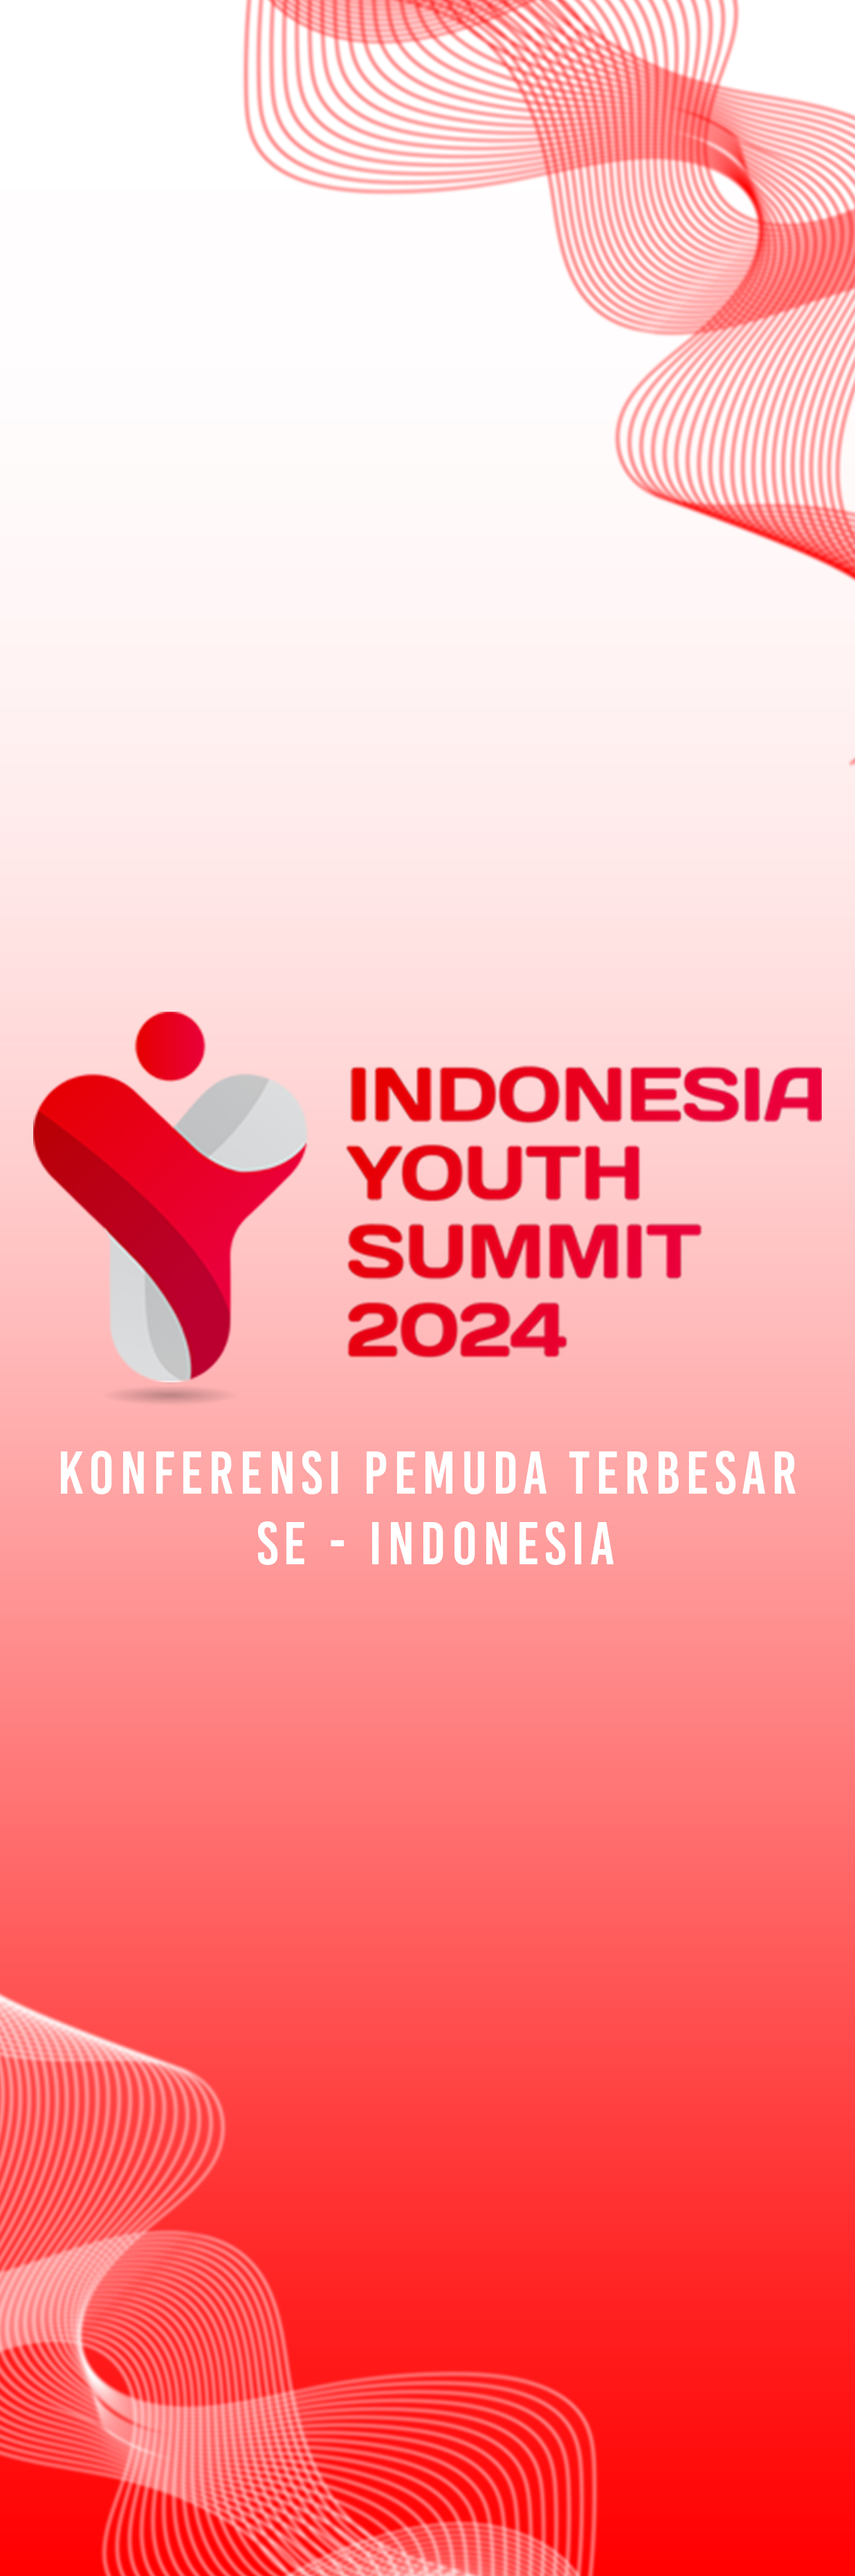
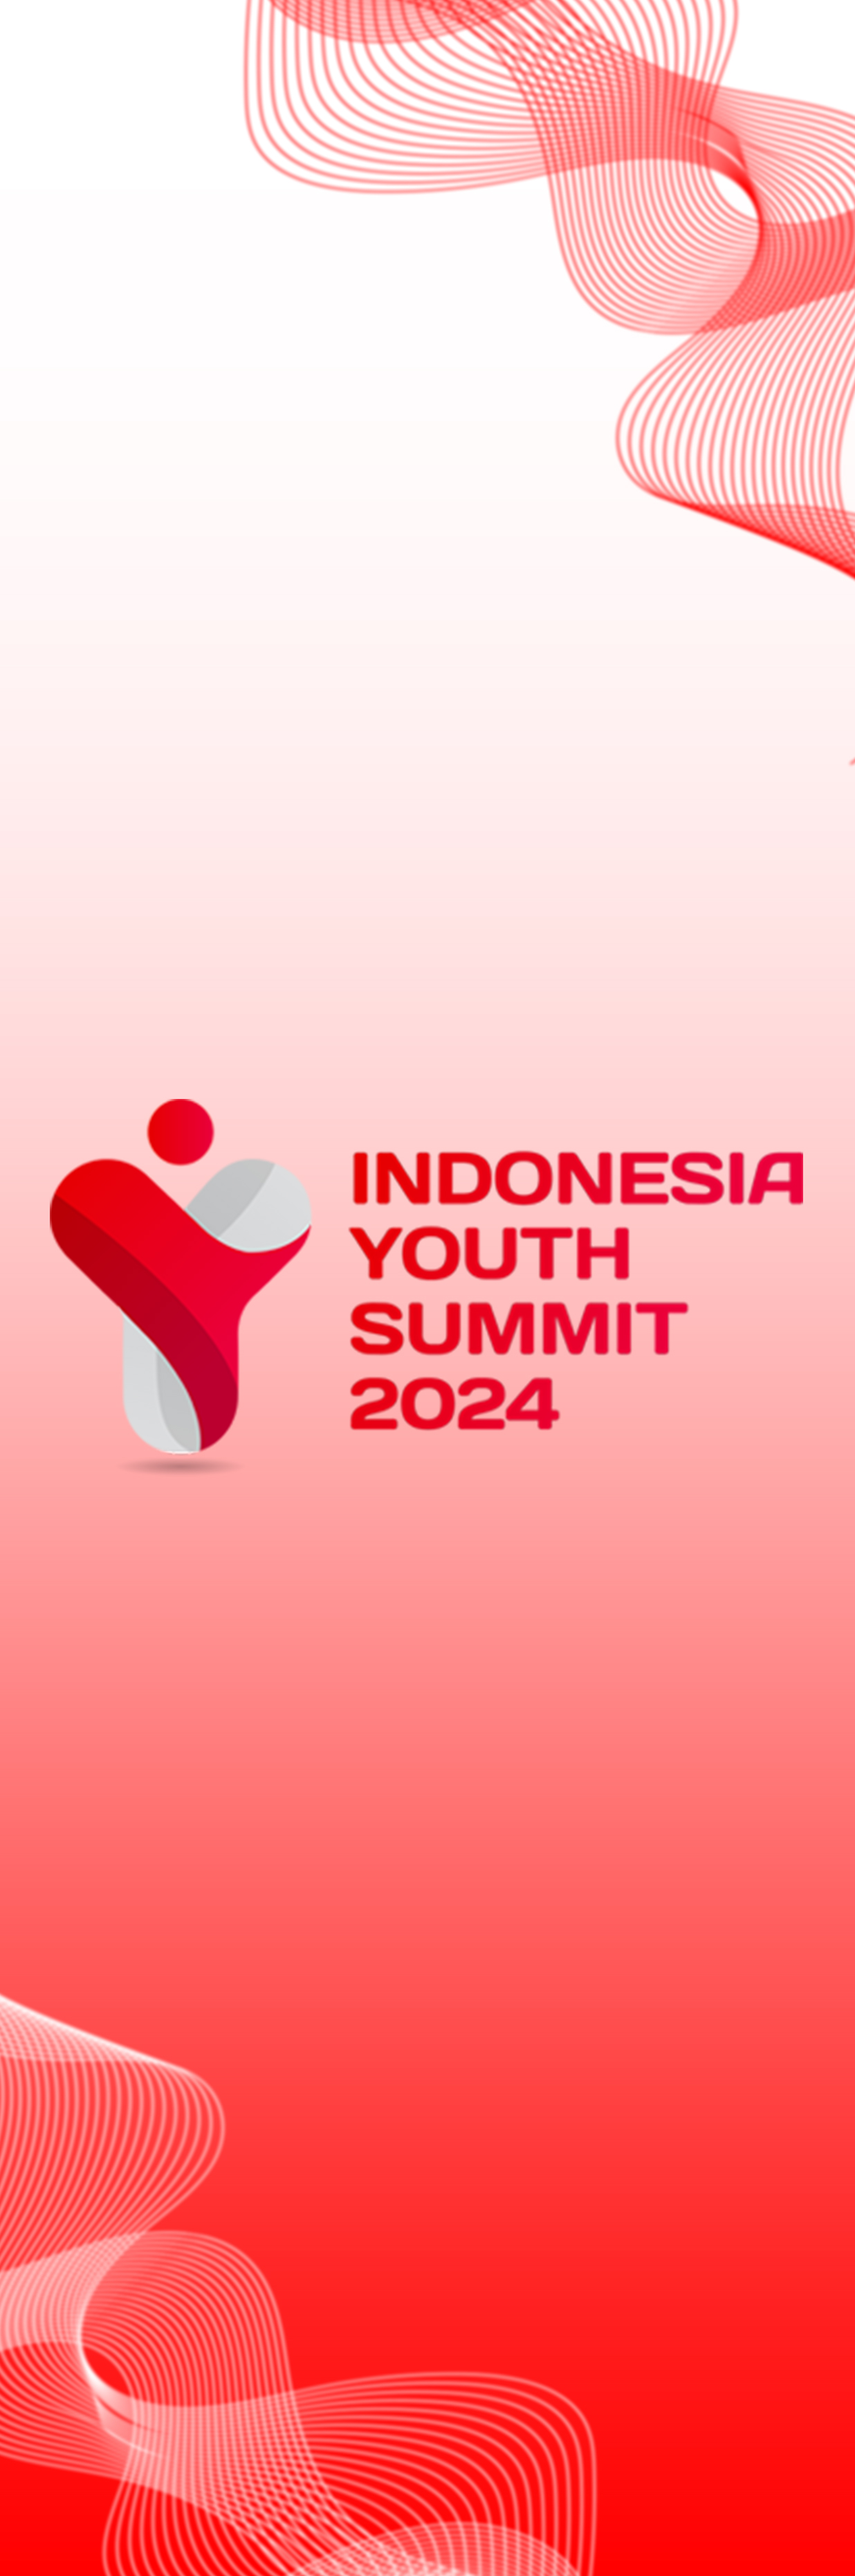
fix

Changed region(s): [[0.3997, 0.4054, 0.9838, 0.6237], [0.0307, 0.3742, 0.3997, 0.6237]]

diff --git a/resources/views/landing/index.blade.php b/resources/views/landing/index.blade.php
@@ -25,6 +25,7 @@
     <!--end::Fonts-->
     <!--begin::Global Stylesheets Bundle(used by all pages)-->
     <link href="{{ asset('admin/assets/plugins/global/plugins.bundle.css') }}" rel="stylesheet" type="text/css" />
+    <link href="{{ asset('admin/assets/plugins/custom/jquery-ui/jquery-ui.css') }}" rel="stylesheet" type="text/css" />
     <link href="{{ asset('admin/assets/css/style.bundle.css') }}" rel="stylesheet" type="text/css" />
     <link href="{{ asset('admin/assets/css/style.css') }}" rel="stylesheet" type="text/css" />
     <!--end::Global Stylesheets Bundle-->
@@ -45,8 +46,12 @@
                         style="height: 100vh" alt="">
                     <img src="{{ asset('cover_mobile.jpg') }}" class="w-100 backgriund-landing d-block d-md-none"
                         style="height: 100vh" alt="">
-                    <img src="{{ asset('logo_muda..png') }}" class="w-100px position-absolute bottom-0 end-0"
-                        style="background-color: #fff; border-top-left-radius: 30px" alt="">
+                    <div class="position-absolute bottom-0 end-0"
+                        style="background-color: #fff; border-top-left-radius: 30px">
+                        <img src="{{ asset('logo_muda..png') }}" class="w-80px" alt="">
+                        <img src="{{ asset('binar.png') }}" class="w-60px" alt="">
+                        <img src="{{ asset('pemimpin.png') }}" class="w-80px" alt="">
+                    </div>
                 </div>
                 <!--begin::Header-->
                 <div class="landing-header" style="background-color: #27010191" data-kt-sticky="true"
@@ -311,62 +316,6 @@
 
                         <!--end::Action-->
                     </div>
-                    <!--end::Heading-->
-                    <!--begin::Clients-->
-                    {{-- <div class="d-flex flex-center flex-wrap position-relative px-5 our-partner"
-                        style="margin-top: 260px">
-                        <!--begin::Client-->
-                        <div class="d-flex flex-center m-3 m-md-6" data-bs-toggle="tooltip" title="Fujifilm">
-                            <img src="{{ asset('admin/assets/media/svg/brand-logos/fujifilm.svg') }}"
-                                class="mh-30px mh-lg-40px" alt="" />
-                        </div>
-                        <!--end::Client-->
-                        <!--begin::Client-->
-                        <div class="d-flex flex-center m-3 m-md-6" data-bs-toggle="tooltip" title="Vodafone">
-                            <img src="{{ asset('admin/assets/media/svg/brand-logos/vodafone.svg') }}"
-                                class="mh-30px mh-lg-40px" alt="" />
-                        </div>
-                        <!--end::Client-->
-                        <!--begin::Client-->
-                        <div class="d-flex flex-center m-3 m-md-6" data-bs-toggle="tooltip"
-                            title="KPMG International">
-                            <img src="{{ asset('admin/assets/media/svg/brand-logos/kpmg.svg') }}"
-                                class="mh-30px mh-lg-40px" alt="" />
-                        </div>
-                        <!--end::Client-->
-                        <!--begin::Client-->
-                        <div class="d-flex flex-center m-3 m-md-6" data-bs-toggle="tooltip" title="Nasa">
-                            <img src="{{ asset('admin/assets/media/svg/brand-logos/nasa.svg') }}"
-                                class="mh-30px mh-lg-40px" alt="" />
-                        </div>
-                        <!--end::Client-->
-                        <!--begin::Client-->
-                        <div class="d-flex flex-center m-3 m-md-6" data-bs-toggle="tooltip" title="Aspnetzero">
-                            <img src="{{ asset('admin/assets/media/svg/brand-logos/aspnetzero.svg') }}"
-                                class="mh-30px mh-lg-40px" alt="" />
-                        </div>
-                        <!--end::Client-->
-                        <!--begin::Client-->
-                        <div class="d-flex flex-center m-3 m-md-6" data-bs-toggle="tooltip"
-                            title="AON - Empower Results">
-                            <img src="{{ asset('admin/assets/media/svg/brand-logos/aon.svg') }}"
-                                class="mh-30px mh-lg-40px" alt="" />
-                        </div>
-                        <!--end::Client-->
-                        <!--begin::Client-->
-                        <div class="d-flex flex-center m-3 m-md-6" data-bs-toggle="tooltip" title="Hewlett-Packard">
-                            <img src="{{ asset('admin/assets/media/svg/brand-logos/hp-3.svg') }}"
-                                class="mh-30px mh-lg-40px" alt="" />
-                        </div>
-                        <!--end::Client-->
-                        <!--begin::Client-->
-                        <div class="d-flex flex-center m-3 m-md-6" data-bs-toggle="tooltip" title="Truman">
-                            <img src="{{ asset('admin/assets/media/svg/brand-logos/truman.svg') }}"
-                                class="mh-30px mh-lg-40px" alt="" />
-                        </div>
-                        <!--end::Client-->
-                    </div> --}}
-                    <!--end::Clients-->
                 </div>
                 <!--end::Landing hero-->
             </div>
@@ -381,9 +330,7 @@
                 <div class="text-center mb-17">
                     <!--begin::Title-->
                     <h3 class="fs-2hx text-dark" id="how-it-works" data-kt-scroll-offset="{default: 100, lg: 150}">
-                        Konferensi Pemuda Terbesar Se-Indonesia</h3>
-                    <h4 class="text-dark mb-5" id="how-it-works" data-kt-scroll-offset="{default: 100, lg: 150}">
-                        Indonesia Youth Summit</h4>
+                        Indonesia Youth Summit</h3>
                     <!--end::Title-->
                     <!--begin::Text-->
                     <div class="content-subdeskripsi">
@@ -1530,15 +1477,17 @@
     </script>
     <!--begin::Global Javascript Bundle(used by all pages)-->
     <script src="{{ asset('admin/assets/plugins/global/plugins.bundle.js') }}"></script>
+    <script src="{{ asset('admin/assets/plugins/custom/jquery-ui/jquery-ui.js') }}"></script>
     <script src="{{ asset('admin/assets/js/scripts.bundle.js') }}"></script>
     <!--end::Global Javascript Bundle-->
     <!--begin::Vendors Javascript(used by this page)-->
     <script src="{{ asset('admin/assets/plugins/custom/fslightbox/fslightbox.bundle.js') }}"></script>
-    <script src="assets/plugins/custom/typedjs/typedjs.bundle.js"></script>
+    <script src="{{ asset('admin/assets/plugins/custom/typedjs/typedjs.bundle.js') }}"></script>
     <!--end::Vendors Javascript-->
     <!--begin::Custom Javascript(used by this page)-->
     <script src="{{ asset('admin/assets/js/custom/landing.js') }}"></script>
-    <script src="{{ asset('admin/assets/js/custom/pages/pricing/general.js') }}"></script>
+    <script src="{{ asset('admin/assets/js/custom/modals/create-app.js') }}"></script>
+    <script src="{{ asset('admin/assets/js/custom/modals/upgrade-plan.js') }}"></script>
     <!--end::Custom Javascript-->
     <!--end::Javascript-->
 

diff --git a/resources/views/landing/detail.blade.php b/resources/views/landing/detail.blade.php
@@ -44,8 +44,12 @@
                         style="height: 100vh" alt="">
                     <img src="{{ asset('cover_mobile.jpg') }}" class="w-100 backgriund-landing d-block d-md-none"
                         style="height: 100vh" alt="">
-                    <img src="{{ asset('logo_muda..png') }}" class="w-100px position-absolute bottom-0 end-0"
-                        style="background-color: #fff; border-top-left-radius: 30px" alt="">
+                    <div class="position-absolute bottom-0 end-0"
+                        style="background-color: #fff; border-top-left-radius: 30px">
+                        <img src="{{ asset('logo_muda..png') }}" class="w-80px" alt="">
+                        <img src="{{ asset('binar.png') }}" class="w-60px" alt="">
+                        <img src="{{ asset('pemimpin.png') }}" class="w-80px" alt="">
+                    </div>
                 </div>
                 <!--begin::Header-->
                 <div class="landing-header" style="background-color: #27010191" data-kt-sticky="true"

diff --git a/resources/views/landing/index2024.blade.php b/resources/views/landing/index2024.blade.php
@@ -44,8 +44,12 @@
                         style="height: 100vh" alt="">
                     <img src="{{ asset('cover_mobile.jpg') }}" class="w-100 backgriund-landing d-block d-md-none"
                         style="height: 100vh" alt="">
-                    <img src="{{ asset('logo_muda..png') }}" class="w-100px position-absolute bottom-0 end-0"
-                        style="background-color: #fff; border-top-left-radius: 30px" alt="">
+                    <div class="position-absolute bottom-0 end-0"
+                        style="background-color: #fff; border-top-left-radius: 30px">
+                        <img src="{{ asset('logo_muda..png') }}" class="w-80px" alt="">
+                        <img src="{{ asset('binar.png') }}" class="w-60px" alt="">
+                        <img src="{{ asset('pemimpin.png') }}" class="w-80px" alt="">
+                    </div>
                 </div>
                 <!--begin::Header-->
                 <div class="landing-header" style="background-color: #27010191" data-kt-sticky="true"
